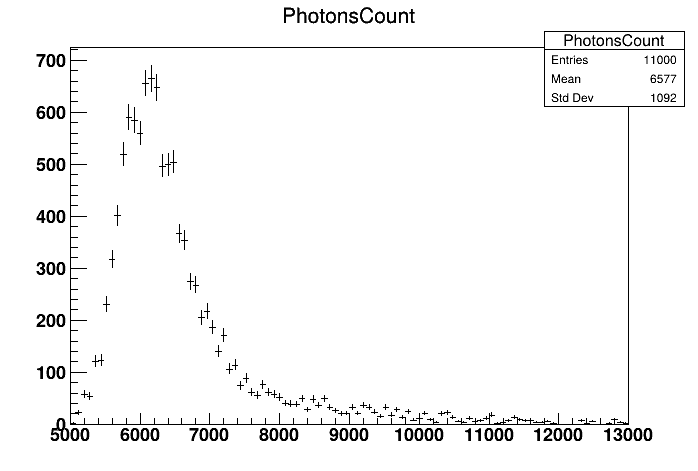
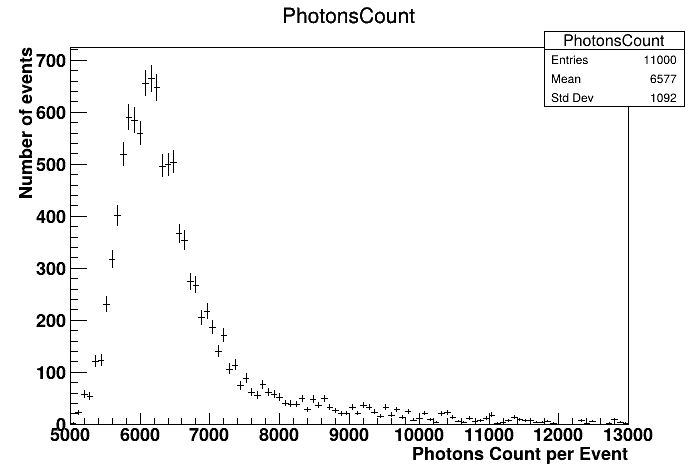
Axis

Changed region(s): [[0.5716, 0.9512, 0.9026, 0.9809], [0.0301, 0.0892, 0.0602, 0.4161]]

diff --git a/data_analyse/photonsCount.py b/data_analyse/photonsCount.py
@@ -11,5 +11,7 @@ for f in os.listdir(path_to_data):
     if f != "output0.root":
         f = ROOT.TFile(os.path.join(path_to_data, f))
         h1.Add(f.Get(name))
+h1.GetXaxis().SetTitle("Photons Count per Event");
+h1.GetYaxis().SetTitle("Number of events");
 h1.Draw()
 c1.SaveAs("photonsCount.png")
